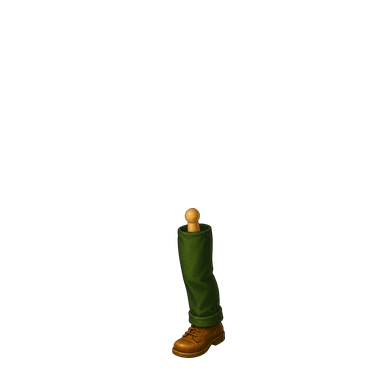
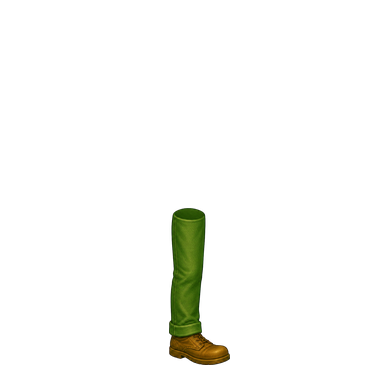
Fix vendor gait and declutter town map

Changed region(s): [[0.4375, 0.5312, 0.625, 0.9688]]

diff --git a/idle/styles.css b/idle/styles.css
@@ -218,8 +218,8 @@ svg { display: block; }
 @keyframes cloud-drift { to { transform: translateX(12vw); } }
 
 .town-life { position:absolute; z-index:3; inset:0; overflow:hidden; pointer-events:none; }
-.walker { position:absolute; z-index:5; width:clamp(54px,5vw,78px); aspect-ratio:1; opacity:1; filter:drop-shadow(0 5px 3px rgba(35,56,40,.28)); transition-property:left,top; transition-timing-function:linear; pointer-events:none; }
-.walker-rig { position:absolute; inset:0; animation:walker-body-bob 800ms ease-in-out infinite; transform-origin:center bottom; }
+.walker { position:absolute; z-index:5; width:clamp(54px,5vw,78px); aspect-ratio:1; overflow:visible; opacity:1; filter:drop-shadow(0 5px 3px rgba(35,56,40,.28)); transition-property:left,top; transition-timing-function:linear; pointer-events:none; }
+.walker-rig { position:absolute; inset:0; overflow:visible; animation:walker-body-bob 800ms ease-in-out infinite; transform-origin:center bottom; }
 .walker.walking-left .walker-rig { scale:-1 1; }
 .walker-part { position:absolute; inset:0; display:block; width:100%; height:100%; object-fit:contain; }
 .walker-torso { z-index:3; }
@@ -268,7 +268,9 @@ svg { display: block; }
 .world-crop:nth-child(4) { left: 39%; bottom: 7%; }
 .world-crop:nth-child(5) { left: 15%; bottom: 23%; transform: scale(.88); }
 .world-crop:nth-child(6) { left: 30%; bottom: 24%; transform: scale(.88); }
-.world-crop-label { position: absolute; left: 50%; bottom: 1px; translate: -50% 0; width: max-content; max-width: 120px; padding: 4px 7px; border-radius: 999px; background: rgba(33,67,47,.88); color: #fff; font-size: 8px; white-space: nowrap; backdrop-filter: blur(6px); }
+.world-crop-label { position: absolute; left: 50%; bottom: 1px; translate: -50% 4px; width: max-content; max-width: 120px; padding: 4px 7px; border-radius: 999px; background: rgba(33,67,47,.88); color: #fff; font-size: 8px; white-space: nowrap; opacity:0; pointer-events:none; backdrop-filter: blur(6px); transition:opacity 140ms ease,translate 140ms ease; }
+.world-crop:hover .world-crop-label, .world-crop:focus-visible .world-crop-label, .world-art.layout-mode .world-crop-label { opacity:1; translate:-50% 0; }
+.world-crop.growing::after { content:""; position:absolute; left:50%; bottom:5px; width:28px; height:4px; translate:-50% 0; overflow:hidden; border-radius:999px; background:linear-gradient(90deg,#f7d98e var(--crop-progress),rgba(33,67,47,.3) var(--crop-progress)); box-shadow:0 1px 4px rgba(28,52,37,.22); }
 @keyframes world-ready { 50% { transform: translateY(-5px); filter: drop-shadow(0 0 12px rgba(255,210,90,.85)); } }
 
 .town-building {
@@ -285,9 +287,11 @@ svg { display: block; }
   transition: transform 180ms cubic-bezier(.2,.8,.2,1), filter 180ms ease;
 }
 .town-building .building-image { width: 100%; height: 100%; }
-.town-building > span:last-child, .animal-habitat > span:last-child { position: absolute; left: 50%; bottom: -8px; translate: -50% 0; display: flex; align-items: center; gap: 5px; width: max-content; max-width: 160px; padding: 6px 9px; border: 2px solid rgba(255,255,255,.7); border-radius: 999px; background: rgba(33, 67, 47, .9); color: #fff; box-shadow: var(--shadow-sm); font-size: 9px; font-style: normal; font-weight: 800; white-space: nowrap; backdrop-filter: blur(8px); }
+.town-building > span:last-child, .animal-habitat > span:last-child { position: absolute; left: 50%; bottom: -8px; translate: -50% 4px; display: flex; align-items: center; gap: 5px; width: max-content; max-width: 160px; padding: 6px 9px; border: 2px solid rgba(255,255,255,.7); border-radius: 999px; background: rgba(33, 67, 47, .9); color: #fff; box-shadow: var(--shadow-sm); font-size: 9px; font-style: normal; font-weight: 800; white-space: nowrap; opacity:0; pointer-events:none; backdrop-filter: blur(8px); transition:opacity 140ms ease,translate 140ms ease; }
+.town-building:hover > span:last-child, .town-building:focus-visible > span:last-child, .animal-habitat:hover > span:last-child, .animal-habitat:focus-visible > span:last-child, .world-art.layout-mode .town-building > span:last-child, .world-art.layout-mode .animal-habitat > span:last-child { opacity:1; translate:-50% 0; }
 .town-building > span:last-child b, .animal-habitat > span:last-child b { color: #ffe29a; }
-.construction-badge { display: none; position: absolute; z-index: 3; top: 8px; left: 50%; translate: -50% 0; padding: 5px 9px; border-radius: 999px; background: var(--pumpkin); color: #fff; box-shadow: var(--shadow-sm); font-size: 8px; font-style: normal; white-space: nowrap; }
+.construction-badge { display: none; position: absolute; z-index: 3; top: 8px; left: 50%; translate: -50% 0; min-width:34px; padding: 5px 8px; border:2px solid rgba(255,255,255,.74); border-radius: 999px; background: rgba(178,92,46,.92); color: #fff; box-shadow: var(--shadow-sm); font-size: 8px; font-style: normal; font-weight:900; text-align:center; white-space: nowrap; }
+.town-building.awaiting-materials .construction-badge { min-width:26px; background:#f4be50; color:#624215; }
 .town-building.under-construction .construction-badge { display: block; animation: construction-pop 900ms ease-in-out infinite alternate; }
 .town-building.under-construction .building-image { animation: build-wobble 1.1s ease-in-out infinite; }
 @keyframes construction-pop { to { transform: translateY(-3px); } }
@@ -295,7 +299,7 @@ svg { display: block; }
 .town-building:hover { transform: translateY(-7px) scale(1.03); filter: drop-shadow(0 16px 11px rgba(34, 56, 39, .25)); }
 .town-building:active { transform: scale(.98); }
 .school-building { top: 10%; left: 38%; }
-.market-building { top: 47%; left: 54%; --size: clamp(105px, 12vw, 175px); }
+.market-building { z-index:6; top: 44%; left: 49%; --size: clamp(112px, 13vw, 185px); }
 .bakery-building { top: 48%; left: 67%; --size: clamp(98px, 11vw, 165px); }
 .library-building { top: 16%; left: 58%; --size: clamp(105px, 12vw, 180px); }
 .locked-building { filter: grayscale(.55) drop-shadow(0 10px 8px rgba(34, 56, 39, .2)); opacity: .48; }

diff --git a/idle/app.js b/idle/app.js
@@ -81,7 +81,7 @@
     },
     market: {
       name: "Main Street Market",
-      short: "Village Market",
+      short: "Main Street Market",
       atlasRow: 1,
       artKey: "market",
       baseCost: 120,
@@ -443,7 +443,7 @@
       districts: { compo: false },
       activeRegion: "coleytown",
       layout: {
-        buildings: { school: { x: 42, y: 16 }, market: { x: 54, y: 53 }, bakery: { x: 68, y: 53 }, library: { x: 60, y: 18 } },
+        buildings: { school: { x: 42, y: 16 }, market: { x: 49, y: 48 }, bakery: { x: 68, y: 53 }, library: { x: 60, y: 18 } },
         animals: { chickens: { x: 8, y: 28 }, cows: { x: 23, y: 25 } },
         plots: [{ x: 7, y: 68 }, { x: 18, y: 69 }, { x: 29, y: 68 }, { x: 40, y: 69 }, { x: 13, y: 52 }, { x: 28, y: 51 }],
       },
@@ -518,6 +518,10 @@
         plots: Array.isArray(saved.plots) ? saved.plots.slice(0, 6) : fresh.plots,
         recentSocial: Array.isArray(saved.recentSocial) ? saved.recentSocial.slice(-8) : fresh.recentSocial,
       };
+      const savedMarketPosition = saved.layout?.buildings?.market;
+      if (savedMarketPosition?.x === 54 && savedMarketPosition?.y === 53) {
+        merged.layout.buildings.market = { x: 49, y: 48 };
+      }
       while (merged.plots.length < 6) merged.plots.push(null);
       applyOfflineProgress(merged);
       return merged;
@@ -814,8 +818,10 @@
       const ready = plot?.crop && plot.readyAt <= now;
       const label = locked ? "Locked field" : !plot ? "Empty field" : ready ? `${crop.name} ready!` : `${crop.name} · ${formatTime((plot.readyAt - now) / 1000)}`;
       const position = state.layout.plots[index] || { x: 8 + index * 10, y: 68 };
-      button.className = `world-crop ${ready ? "ready" : ""} ${locked ? "locked" : ""}`;
+      button.className = `world-crop ${ready ? "ready" : plot?.crop ? "growing" : ""} ${locked ? "locked" : ""}`;
       button.setAttribute("aria-label", label);
+      const cropProgress = plot?.crop ? clamp((now - plot.plantedAt) / (plot.readyAt - plot.plantedAt), 0, 1) : 0;
+      button.style.setProperty("--crop-progress", `${cropProgress * 100}%`);
       button.style.left = `${position.x}%`;
       button.style.top = `${position.y}%`;
       button.style.right = "auto";
@@ -836,7 +842,15 @@
       const source = buildingAsset(config, column);
       if (sprite.getAttribute("src") !== source) sprite.src = source;
       const badge = button.querySelector(".construction-badge");
-      if (badge && building) badge.textContent = constructionReady(building) && building.phase < 2 ? "Needs supplies" : `${constructionPhaseName(building.phase)}…`;
+      if (badge && building) {
+        const awaitingMaterials = constructionReady(building) && building.phase < 2;
+        badge.textContent = awaitingMaterials ? "!" : formatTime((building.phaseReadyAt - now) / 1000);
+        button.classList.toggle("awaiting-materials", awaitingMaterials);
+        button.setAttribute("aria-label", `${config.name}. ${awaitingMaterials ? "Ready for the next supply payment" : `${constructionPhaseName(building.phase)}, ${badge.textContent} remaining`}`);
+      } else {
+        button.classList.remove("awaiting-materials");
+        button.setAttribute("aria-label", config.name);
+      }
       const position = state.layout.buildings[id];
       button.style.left = `${position.x}%`; button.style.top = `${position.y}%`; button.style.right = "auto"; button.style.bottom = "auto";
     });

diff --git a/idle/index.html b/idle/index.html
@@ -89,10 +89,10 @@
               <em class="construction-badge" aria-hidden="true">Building…</em>
               <span>Schoolhouse <b id="school-level-map">Lv. 1</b></span>
             </button>
-            <button class="town-building market-building" data-building="market" type="button" aria-label="Village Market">
+            <button class="town-building market-building" data-building="market" type="button" aria-label="Main Street Market">
               <img class="world-asset building-image" alt="">
               <em class="construction-badge" aria-hidden="true">Building…</em>
-              <span>Village Market <b id="market-level-map">Lv. 1</b></span>
+              <span>Main Street Market <b id="market-level-map">Lv. 1</b></span>
             </button>
             <button class="town-building bakery-building locked-building" data-building="bakery" type="button" aria-label="Cedar Bakery">
               <img class="world-asset building-image" alt="">

diff --git a/idle/sw.js b/idle/sw.js
@@ -1,4 +1,4 @@
-const CACHE_NAME = "idle-town-pwa-cache-v10";
+const CACHE_NAME = "idle-town-pwa-cache-v11";
 const CROP_FILES = ["carrot", "wheat", "pumpkin", "apple"].flatMap((crop) =>
   ["soil", "sprout", "young", "mature"].map((stage) => `./assets/art/living-world/crops/${crop}-${stage}.png`)
 );
